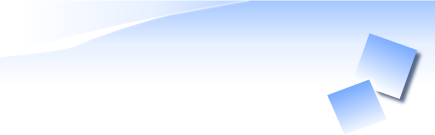
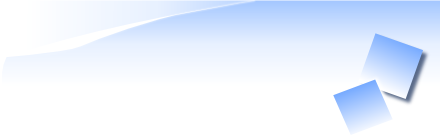
* minor improvement.

diff --git a/lib/rabbit/theme/clear-blue/clear-blue.rb b/lib/rabbit/theme/clear-blue/clear-blue.rb
@@ -1,8 +1,8 @@
 add_image_path("clear-blue-images")
 
 base_color = "#458cff"
-base_dark_background_color = "#ddddff"
-base_background_color = "#e9e9ff"
+base_dark_background_color = "#e9ffff"
+base_background_color = "#ffffff"
 
 set_graffiti_color("#{base_color}99")
 set_graffiti_line_width(30)
